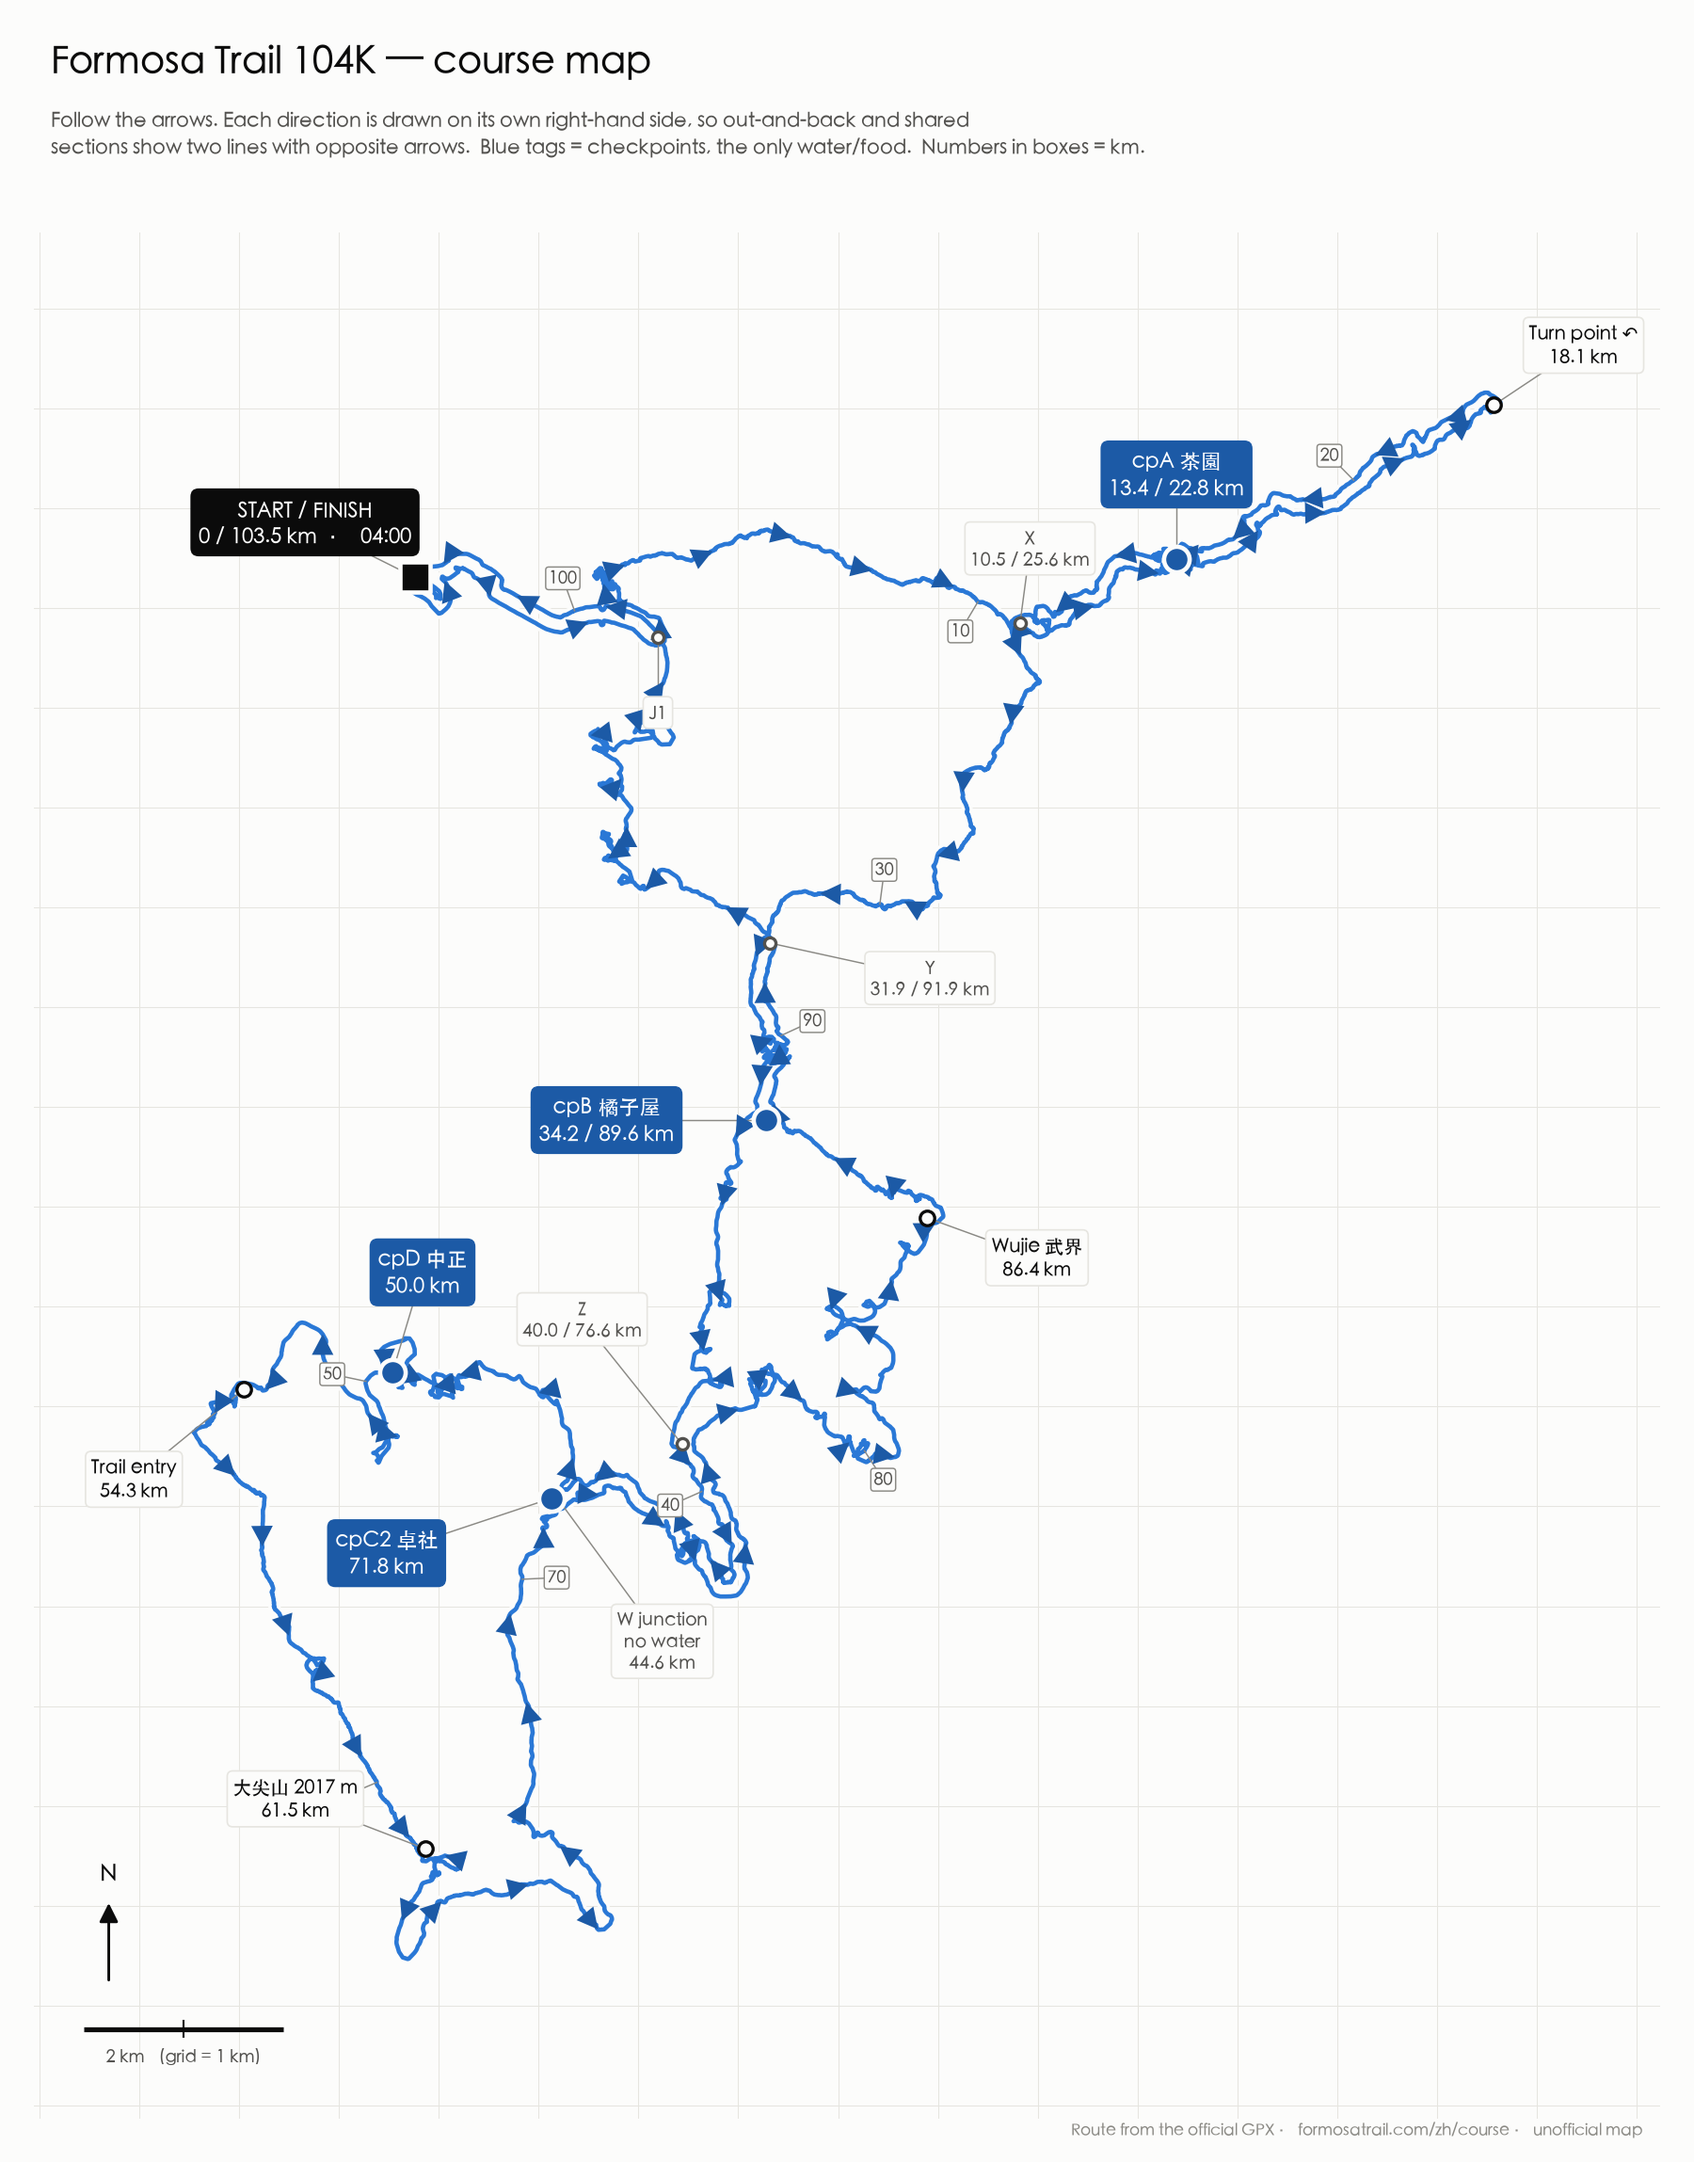
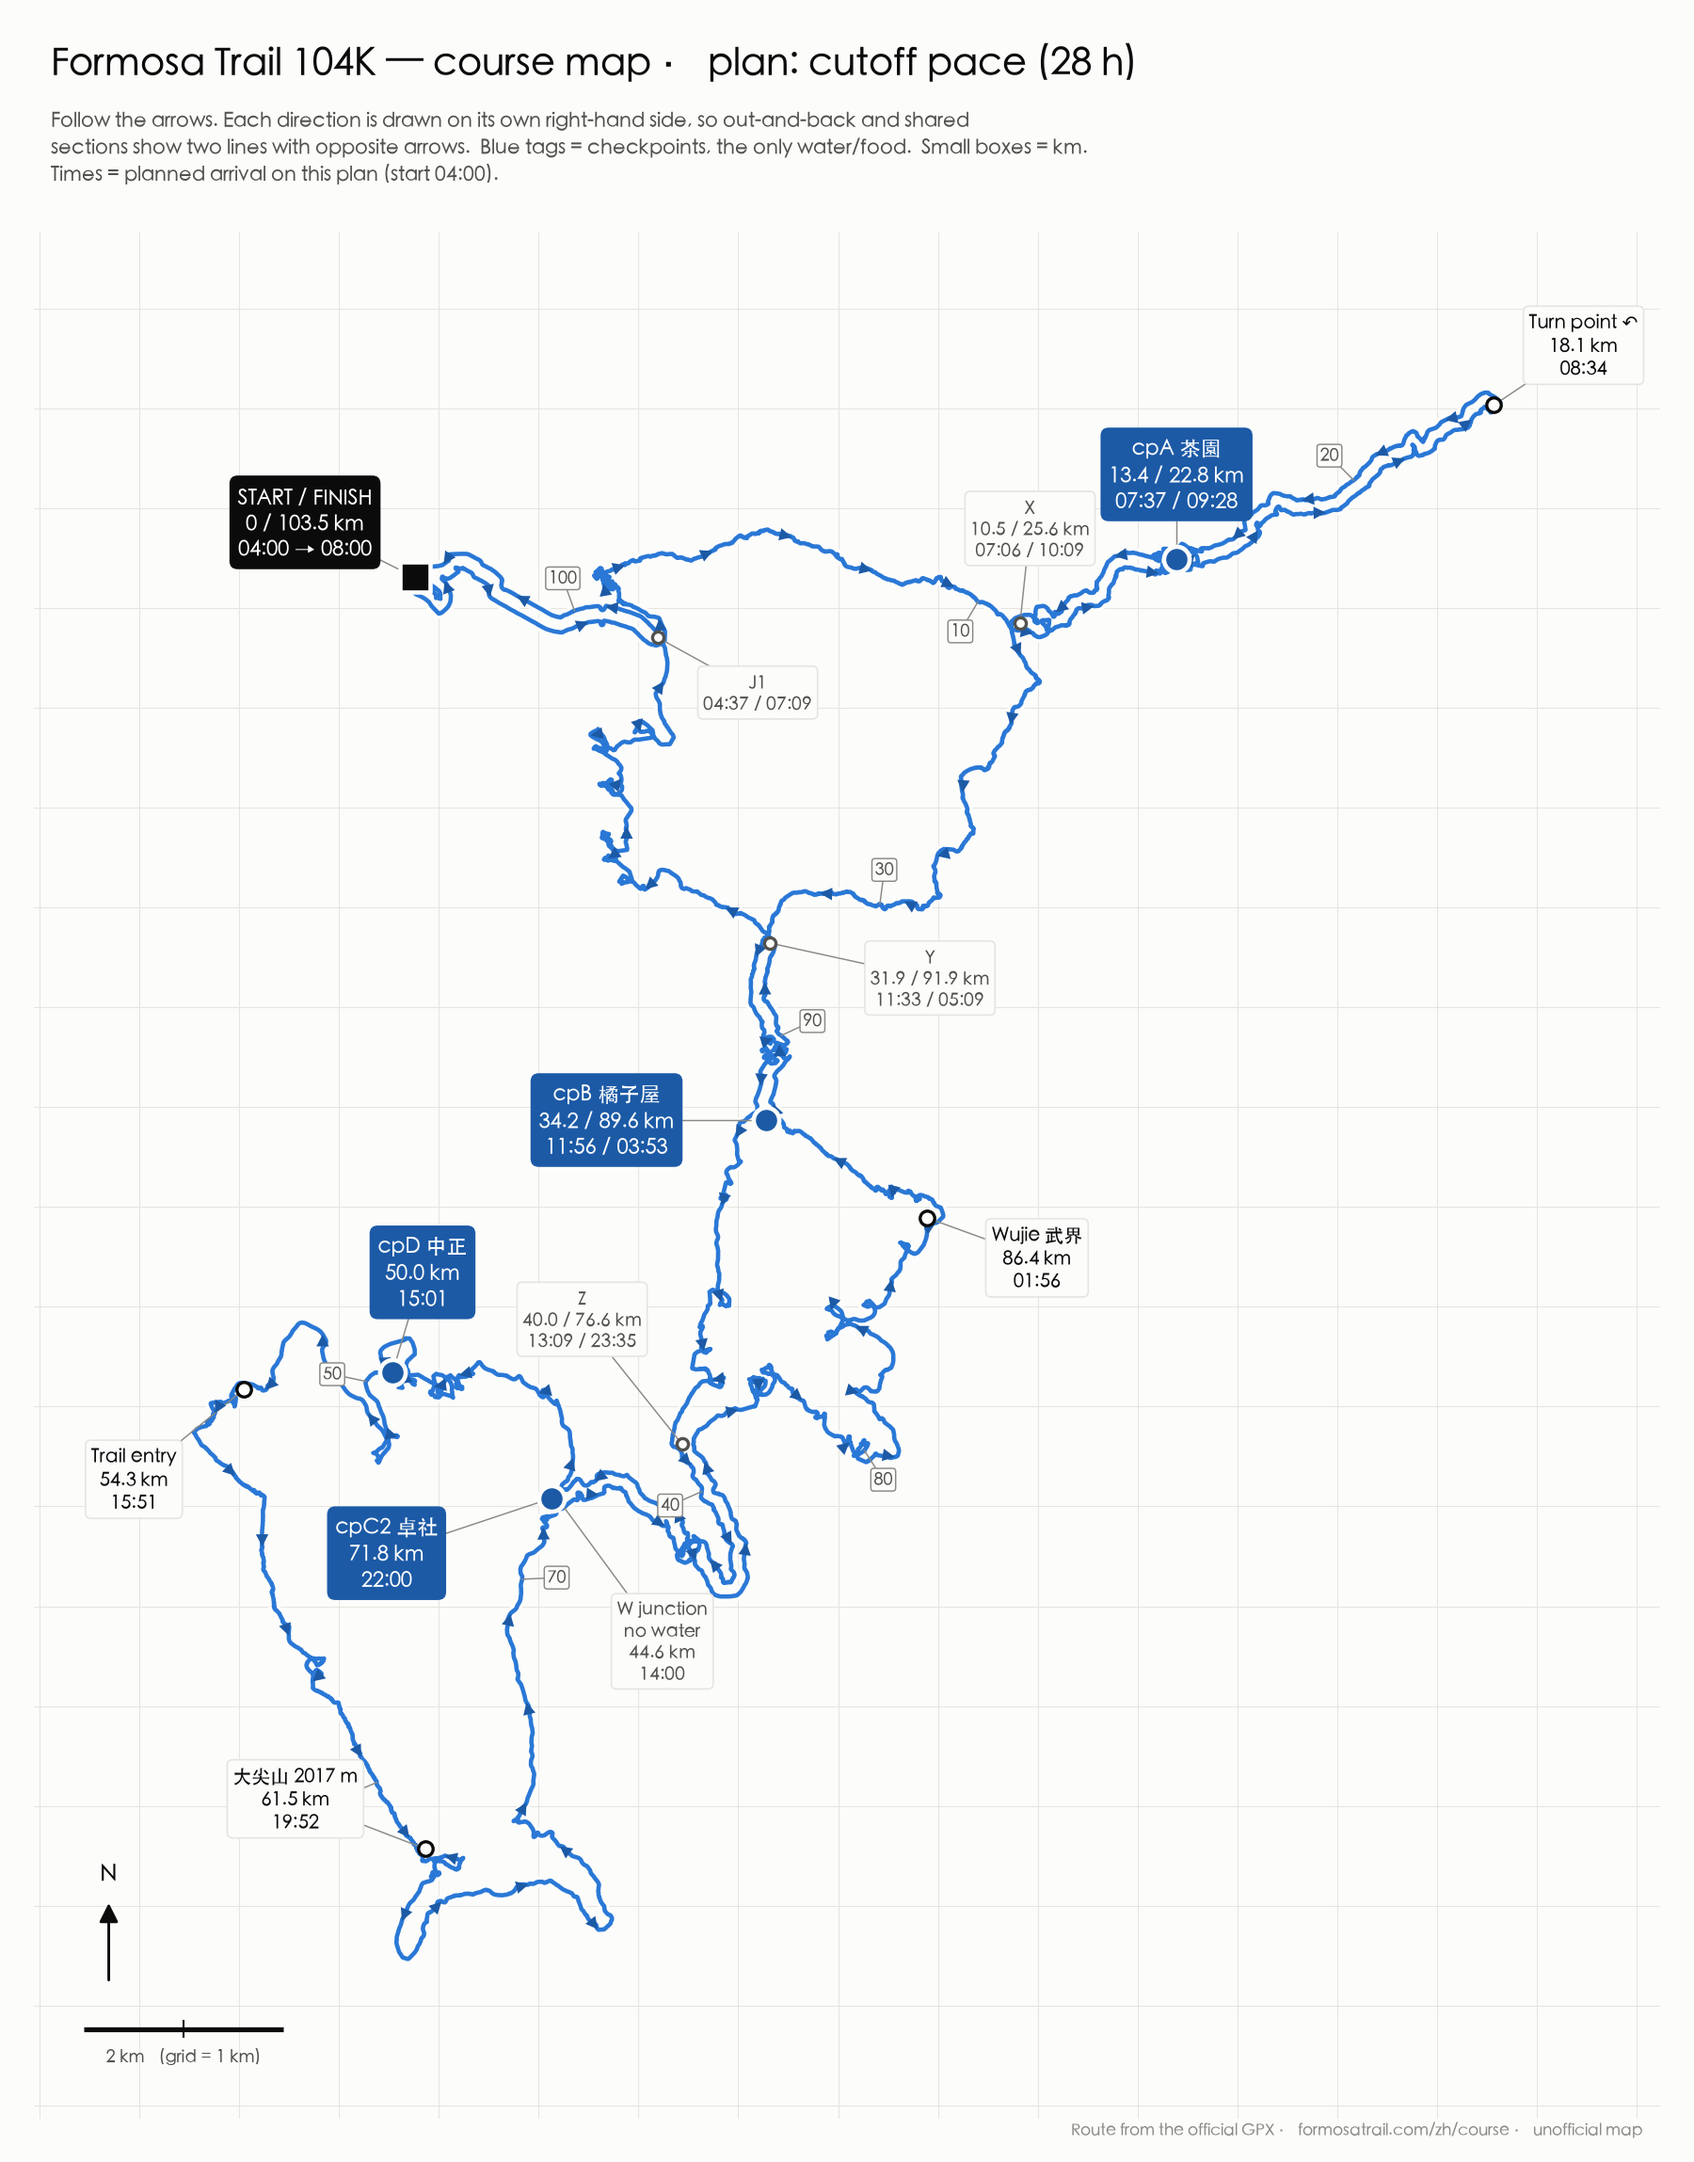
Course map: smaller arrows, plan times on labels, 24 h version
Claude-Session: https://claude.ai/code/session_01Lm63YEYiCqr7Tt3bacV6JE

diff --git a/make_course_map.py b/make_course_map.py
@@ -19,8 +19,13 @@ src, out = (sys.argv + ["FT104_waypoints.gpx", "ft104_course_map.png"])[1:3]
 s = open(src, encoding="utf-8").read()
 trk = [(float(a), float(b), float(e)) for a, b, e in re.findall(
     r'<trkpt lat="([^"]+)" lon="([^"]+)"><ele>([^<]+)</ele>', s)]
-wps = [(float(a), float(b), n, sym) for a, b, n, sym in re.findall(
-    r'<wpt lat="([^"]+)" lon="([^"]+)">.*?<name>([^<]+)</name>.*?<sym>([^<]+)</sym>', s)]
+from datetime import datetime, timedelta, timezone
+TZ = timezone(timedelta(hours=8))
+hhmm = lambda t: datetime.strptime(t, "%Y-%m-%dT%H:%M:%SZ").replace(tzinfo=timezone.utc).astimezone(TZ).strftime("%H:%M")
+wps = [(float(a), float(b), n, sym, hhmm(t)) for a, b, t, n, sym in re.findall(
+    r'<wpt lat="([^"]+)" lon="([^"]+)"><ele>[^<]+</ele><time>([^<]+)</time><name>([^<]+)</name>.*?<sym>([^<]+)</sym>', s)]
+hours = float((re.search(r"pace plan, ([\d.]+) h finish", s) or [0, 28])[1])
+PLAN = "cutoff pace (28 h)" if abs(hours - 28) < 1e-6 else f"{hours:g} h finish"
 
 # ---- local projection in km ----
 LAT0 = sum(p[0] for p in trk) / len(trk); LON0 = sum(p[1] for p in trk) / len(trk)
@@ -72,7 +77,7 @@ d = 0.6
 while d < D[-1] - 0.3:
     i, j = at(d - 0.08), at(d + 0.08)
     ax.annotate("", xy=Q[j], xytext=Q[i], zorder=4,
-                arrowprops=dict(arrowstyle="-|>,head_length=1.05,head_width=0.55", color=BLUE_DARK, lw=0,
+                arrowprops=dict(arrowstyle="-|>,head_length=0.62,head_width=0.32", color=BLUE_DARK, lw=0,
                                 shrinkA=0, shrinkB=0))
     d += STEP
 
@@ -88,27 +93,27 @@ for k in range(10, int(D[-1]) + 1, 10):
 # ---- waypoints merged by place (same spot visited twice -> one label) ----
 def kmlabel(n): m = re.search(r"(\d+\.\d)$", n); return m.group(1) if m else None
 places = []
-for lat, lon, name, sym in wps:
+for lat, lon, name, sym, tm in wps:
     p = xy(lat, lon)
     for pl in places:
-        if math.dist(pl["p"], p) < 0.35 and (pl["cp"] == (sym == "Food")): pl["items"].append((name, sym)); break
+        if math.dist(pl["p"], p) < 0.35 and (pl["cp"] == (sym == "Food")): pl["items"].append((name, sym, tm)); break
     else:
-        places.append(dict(p=p, items=[(name, sym)], cp=sym == "Food"))
+        places.append(dict(p=p, items=[(name, sym, tm)], cp=sym == "Food"))
 
 def title(pl):
-    names = [n for n, _ in pl["items"]]
+    names = [it[0] for it in pl["items"]]
     kms = [k for k in map(kmlabel, names) if k]
     base = re.sub(r"\s*\d+\.\d$", "", names[0])
     base = re.sub(r"-\d(?=\s|$)|\s(out|ret)$", "", base.replace("cpD Bag", "cpD"))
-    return base, " / ".join(kms)
+    return base, " / ".join(kms), " / ".join(it[2] for it in pl["items"])
 
 # label positions (dx, dy in km from the point), tuned for this course
-POS = {"START": (-1.1, 0.55), "J1": (0.0, -0.75), "X": (0.1, 0.75), "cpA": (0.0, 0.85), "TURN": (0.9, 0.6),
+POS = {"START": (-1.1, 0.55), "J1": (1.0, -0.55), "X": (0.1, 0.95), "cpA": (0.0, 0.85), "TURN": (0.9, 0.6),
        "Y": (1.6, -0.35), "cpB": (-1.6, 0.0), "Z": (-1.0, 1.25), "W/cpC": (1.1, -1.5), "cpC2": (-1.65, -0.55),
        "cpD": (0.3, 1.0), "TrailHead": (-1.1, -0.9), "Dajianshan": (-1.3, 0.5), "Wujie": (1.1, -0.4),
        "FINISH": (-1.1, 0.55)}
 for pl in places:
-    base, kms = title(pl)
+    base, kms, tms = title(pl)
     key = next((k for k in POS if base.startswith(k)), None)
     if base.startswith(("START", "FINISH")):
         continue
@@ -117,7 +122,7 @@ for pl in places:
     ax.plot([x, tx], [y, ty], color=MUTED, lw=0.7, zorder=3.5)
     if pl["cp"]:
         ax.scatter([x], [y], s=170, color=CP_FILL, edgecolor=SURF, linewidth=2.2, zorder=7)
-        ax.text(tx, ty, f"{base}\n{kms} km", fontsize=10.5, color="white", ha="center", va="center", zorder=8,
+        ax.text(tx, ty, f"{base}\n{kms} km\n{tms}", fontsize=10.5, color="white", ha="center", va="center", zorder=8,
                 linespacing=1.25, bbox=dict(boxstyle="round,pad=0.4", fc=CP_FILL, ec="none"))
     else:
         sym = pl["items"][0][1]
@@ -125,14 +130,14 @@ for pl in places:
         ax.scatter([x], [y], s=55 if strong else 34, color=SURF, edgecolor=INK if strong else INK2, linewidth=1.6, zorder=7)
         nice = {"Dajianshan": "大尖山 2017 m", "TURN": "Turn point ↶", "TrailHead": "Trail entry",
                 "Wujie": "Wujie 武界", "W/cpC": "W junction\nno water"}.get(base, base.replace(" Fork", "").replace(" Merge", ""))
-        ax.text(tx, ty, f"{nice}\n{kms} km" if kms else nice, fontsize=9.5 if strong else 9,
+        ax.text(tx, ty, f"{nice}\n{kms} km\n{tms}" if kms else f"{nice}\n{tms}", fontsize=9.5 if strong else 9,
                 color=INK if strong else INK2, ha="center", va="center", zorder=8, linespacing=1.2,
                 bbox=dict(boxstyle="round,pad=0.3", fc=SURF, ec=GRID, lw=0.8))
 
 # start / finish flag
 sx, sy = P[0]
 ax.scatter([sx], [sy], s=230, marker="s", color=INK, edgecolor=SURF, linewidth=2.2, zorder=9)
-ax.text(sx + POS["START"][0], sy + POS["START"][1], "START / FINISH\n0 / 103.5 km  ·  04:00", fontsize=10.5,
+ax.text(sx + POS["START"][0], sy + POS["START"][1], f"START / FINISH\n0 / 103.5 km\n{wps[0][4]} → {wps[-1][4]}", fontsize=10.5,
         color="white", ha="center", va="center", zorder=9, linespacing=1.25,
         bbox=dict(boxstyle="round,pad=0.4", fc=INK, ec="none"))
 ax.plot([sx, sx + POS["START"][0]], [sy, sy + POS["START"][1]], color=MUTED, lw=0.7, zorder=3.5)
@@ -147,11 +152,11 @@ ax.plot([x0 + 1, x0 + 1], [y0 + 0.22, y0 + 0.38], color=INK, lw=1)
 ax.text(x0 + 1, y0 + 0.02, "2 km   (grid = 1 km)", ha="center", va="center", fontsize=8.5, color=INK2)
 
 top = 0.98
-fig.text(0.03, top, "Formosa Trail 104K — course map", fontsize=19, fontweight="bold", color=INK, va="top")
+fig.text(0.03, top, f"Formosa Trail 104K — course map · plan: {PLAN}", fontsize=19, fontweight="bold", color=INK, va="top")
 fig.text(0.03, top - 0.03,
          "Follow the arrows. Each direction is drawn on its own right-hand side, so out-and-back and shared\n"
          "sections show two lines with opposite arrows.  Blue tags = checkpoints, the only water/food.  "
-         "Numbers in boxes = km.", fontsize=10, color=INK2, va="top", linespacing=1.35)
+         "Small boxes = km.\nTimes = planned arrival on this plan (start 04:00).", fontsize=10, color=INK2, va="top", linespacing=1.35)
 fig.text(0.97, 0.012, "Route from the official GPX · formosatrail.com/zh/course · unofficial map",
          fontsize=8, color=MUTED, ha="right")
 fig.savefig(out, facecolor=SURF)

diff --git a/README.md b/README.md
@@ -5,7 +5,9 @@ Official course info (map, GPX, checkpoints, cutoffs): **[Formosa Trail – Cour
 
 This repo creates `FT104_waypoints.gpx` from it. The new file keeps the same 8,096 track points, adds 21 waypoints built from the official distance table (`distancetable.txt`), and replaces the fake timestamps with a **cutoff-based pace plan**.
 
-![FT104 course map with direction arrows](ft104_course_map.png)
+![FT104 course map with direction arrows, 24 h plan](ft104_course_map_24h.png)
+
+Cutoff-pace (28 h) version: [`ft104_course_map.png`](ft104_course_map.png)
 
 ![FT104 elevation profile, 24 h plan](ft104_elevation_24h.png)
 
@@ -18,7 +20,7 @@ Cutoff-pace (28 h) version: [`ft104_elevation.png`](ft104_elevation.png)
 | `FT104.gpx` | Official track from the [course page](https://formosatrail.com/zh/course/) (GpsPrune export, GPX 1.0) |
 | `distancetable.txt` | Official distance / elevation / cutoff table, from the [course page](https://formosatrail.com/zh/course/) |
 | `ft104kcoursepic.png` | Course map (schematic, not to scale) |
-| `ft104_course_map.png` / `make_course_map.py` | Simpler map drawn from the real GPX, with direction arrows every 1 km, km markers every 10 km and checkpoints highlighted. Each direction is drawn on its own right-hand side, so out-and-back sections show two lines with opposite arrows |
+| `ft104_course_map.png` / `ft104_course_map_24h.png` / `make_course_map.py` | Simpler map drawn from the real GPX, for the 28 h / 24 h plan, with planned arrival times on every label, direction arrows every 1 km, km markers every 10 km and checkpoints highlighted. Each direction is drawn on its own right-hand side, so out-and-back sections show two lines with opposite arrows |
 | `make_waypoint_gpx.py` | Script that creates the new GPX (Python 3 standard library only) |
 | `FT104_waypoints.gpx` | **Output to load onto your watch or app** (GPX 1.1), plan = cutoff pace (28 h) |
 | `FT104_24h.gpx` | Same, plan = 24 h finish (`--finish-hours 24`) |
@@ -110,4 +112,5 @@ uv run make_elevation_chart.py FT104_waypoints.gpx ft104_elevation.png
 uv run make_elevation_chart.py FT104_24h.gpx ft104_elevation_24h.png
 # course map with direction arrows:
 uv run make_course_map.py FT104_waypoints.gpx ft104_course_map.png
+uv run make_course_map.py FT104_24h.gpx ft104_course_map_24h.png
 ```
